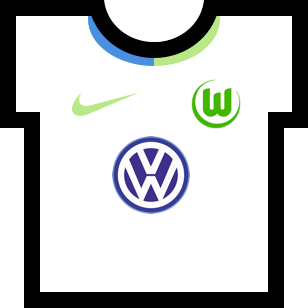
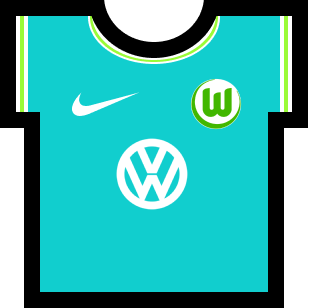
Updated more kits to season 20

diff --git a/docs/js/main.min.js b/docs/js/main.min.js
@@ -1,1 +1,1 @@
-function dataFixture(){var e=this,a=[];e.matchesURI="https://api.football-data.org/v2/competitions/2002/matches",e.matchdayURI="https://api.football-data.org/v2/competitions",e.ajax=function(e,a,t){var n={url:e,type:a,accepts:"application/json",cache:!1,dataType:"json",data:JSON.stringify(t),headers:{"X-Auth-Token":"5c8b70988e784fca8186b93d38b1bae7"},error:function(e){console.log("ajax error "+e.status)}};return $.ajax(n)},e.ajax(e.matchdayURI,"GET").done(function(e){var t=e.competitions;for(i=0;i<t.length;i++){const n=t[i];2002==n.id&&a.push(n.currentSeason.currentMatchday)}}),e.ajax(e.matchesURI,"GET").done(function(e){var t=e.matches,n=(new Date,new Date("2018-04-24"),[]),r=a[0];for($(".js-fixture-round").text(r+". Spieltag"),i=0;i<t.length;i++){const s=t[i];s.matchday==r&&n.push(s)}for(console.log(e),i=0;i<n.length;i++){const s=n[i];fixtureItem(s)}})}function dataLadder(){var e=this;e.ajax=function(e,a,t){var n={url:e,type:a,accepts:"application/json",cache:!1,dataType:"json",data:JSON.stringify(t),headers:{"X-Auth-Token":"5c8b70988e784fca8186b93d38b1bae7"},error:function(e){console.log("ajax error "+e.status)}};return $.ajax(n)},e.tasksURI="https://api.football-data.org/v2/competitions/2002/standings",e.ajax(e.tasksURI,"GET").done(function(e){var a=e.standings[0].table;for(console.log(a),i=0;i<a.length;i++){ladderItem(a[i],i+1)}})}function data(){dataFixture(),dataLadder()}function dateTime(e){var a=new Date(e),t=a.getDate();return{day:function(e){var a=e.getDay();return 0==a?"Sonntag":1==a?"Montag":2==a?"Dienstag":3==a?"Mittwoch":4==a?"Donnerstag":5==a?"Freitag":6==a?"Samstag":void 0}(a),month:function(e){var a=e.getMonth();return 0==a?"Jan":1==a?"Feb":2==a?"Mär":3==a?"Apr":4==a?"Mai":5==a?"Jun":6==a?"Jul":7==a?"Aug":8==a?"Sep":9==a?"Okt":10==a?"Nov":11==a?"Dez":void 0}(a),date:t,time:function(e){return e.getHours()+":"+("0"+e.getMinutes()).slice(-2)}(a)}}function fixtureItem(e){var a=dateTime(e.utcDate),t=e.status;"IN_PLAY"==t?$(".js-fixture").before('<div class="c-fixture__game c-fixture__game--in-progress"><div class= "c-fixture__date c-date" ><span class="c-date__day">'+a.day+'</span><span class="c-date__month">'+a.month+'</span><span class="c-date__date">'+a.date+'</span><span class="c-date__time">LIVE</span></div ><div class="c-fixture__team js-fixture-team-1"><img class="js-team-img" src="'+kitImg(e.homeTeam.name,e.awayTeam.name,"Home")+'" /><span class="js-team-text">'+teamAbrev(e.homeTeam.name)[0].name+'</span><span class="c-fixture__score js-score-text">'+e.score.fullTime.homeTeam+'</span></div><div class="c-fixture__vs">vs</div><div class="c-fixture__team js-fixture-team-2"><img class="js-team-img" src="'+kitImg(e.homeTeam.name,e.awayTeam.name,"Away")+'" /><span class="js-team-text">'+teamAbrev(e.awayTeam.name)[0].name+'</span><span class="c-fixture__score js-score-text">'+e.score.fullTime.awayTeam+'</span></div><div class="c-fixture__venue js-fixture-venue"></div></div>'):"PAUSED"==t?$(".js-fixture").before('<div class="c-fixture__game c-fixture__game--in-progress"><div class= "c-fixture__date c-date" ><span class="c-date__day">'+a.day+'</span><span class="c-date__month">'+a.month+'</span><span class="c-date__date">'+a.date+'</span><span class="c-date__time">HT</span></div ><div class="c-fixture__team js-fixture-team-1"><img class="js-team-img" src="'+kitImg(e.homeTeam.name,e.awayTeam.name,"Home")+'" /><span class="js-team-text">'+teamAbrev(e.homeTeam.name)[0].name+'</span><span class="c-fixture__score js-score-text">'+e.score.fullTime.homeTeam+'</span></div><div class="c-fixture__vs">vs</div><div class="c-fixture__team js-fixture-team-2"><img class="js-team-img" src="'+kitImg(e.homeTeam.name,e.awayTeam.name,"Away")+'" /><span class="js-team-text">'+teamAbrev(e.awayTeam.name)[0].name+'</span><span class="c-fixture__score js-score-text">'+e.score.fullTime.awayTeam+'</span></div><div class="c-fixture__venue js-fixture-venue"></div></div>'):"FINISHED"==t?$(".js-fixture").before('<div class="c-fixture__game c-fixture__game--completed"><div class= "c-fixture__date c-date" ><span class="c-date__day">'+a.day+'</span><span class="c-date__month">'+a.month+'</span><span class="c-date__date">'+a.date+'</span><span class="c-date__time">FT</span></div ><div class="c-fixture__team js-fixture-team-1"><img class="js-team-img" src="'+kitImg(e.homeTeam.name,e.awayTeam.name,"Home")+'" /><span class="js-team-text">'+teamAbrev(e.homeTeam.name)[0].name+'</span><span class="c-fixture__score js-score-text">'+e.score.fullTime.homeTeam+'</span></div><div class="c-fixture__vs">vs</div><div class="c-fixture__team js-fixture-team-2"><img class="js-team-img" src="'+kitImg(e.homeTeam.name,e.awayTeam.name,"Away")+'" /><span class="js-team-text">'+teamAbrev(e.awayTeam.name)[0].name+'</span><span class="c-fixture__score js-score-text">'+e.score.fullTime.awayTeam+'</span></div><div class="c-fixture__venue js-fixture-venue"></div></div>'):$(".js-fixture").before('<div class="c-fixture__game"><div class= "c-fixture__date c-date" ><span class="c-date__day">'+a.day+'</span><span class="c-date__month">'+a.month+'</span><span class="c-date__date">'+a.date+'</span><span class="c-date__time">'+a.time+'</span></div ><div class="c-fixture__team js-fixture-team-1"><img class="js-team-img" src="'+kitImg(e.homeTeam.name,e.awayTeam.name,"Home")+'" /><span class="js-team-text">'+teamAbrev(e.homeTeam.name)[0].name+'</span><span class="c-fixture__score js-score-text">-</span></div><div class="c-fixture__vs">vs</div><div class="c-fixture__team js-fixture-team-2"><img class="js-team-img" src="'+kitImg(e.homeTeam.name,e.awayTeam.name,"Away")+'" /><span class="js-team-text">'+teamAbrev(e.awayTeam.name)[0].name+'</span><span class="c-fixture__score js-score-text">-</span></div><div class="c-fixture__venue js-fixture-venue"></div></div>')}function kitImg(e,a,t){if("Home"==t){if("1. FC Nürnberg"==e)return"img/teams/Nuernberg/Home.png";if("1. FSV Mainz 05"==e)return"img/teams/Mainz/Home.png";if("Bayer 04 Leverkusen"==e)return"img/teams/Leverkusen/Home.png";if("BV Borussia 09 Dortmund"==e)return"img/teams/Dortmund/Home.png";if("Borussia Mönchengladbach"==e)return"img/teams/Gladbach/Home.png";if("Eintracht Frankfurt"==e)return"img/teams/Frankfurt/Home.png";if("FC Augsburg"==e)return"img/teams/Augsburg/Home.png";if("FC Bayern München"==e)return"img/teams/Bayern/Home.png";if("FC Schalke 04"==e)return"img/teams/Schalke/Home.png";if("TSV Fortuna 95 Düsseldorf"==e)return"img/teams/Duesseldorf/Home.png";if("Hannover 96"==e)return"img/teams/Hannover/Home.png";if("Hertha BSC"==e)return"img/teams/Hertha/Home.png";if("RB Leipzig"==e)return"img/teams/Leipzig/Home.png";if("SC Freiburg"==e)return"img/teams/Freiburg/Home.png";if("TSG 1899 Hoffenheim"==e)return"img/teams/Hoffenheim/Home.png";if("VfB Stuttgart"==e)return"img/teams/Stuttgart/Home.png";if("VfL Wolfsburg"==e)return"img/teams/Wolfsburg/Home.png";if("SV Werder Bremen"==e)return"img/teams/Bremen/Home.png";if("SC Paderborn 07"==e)return"img/teams/Paderborn/Home.png";if("1. FC Köln"==e)return"img/teams/Koeln/Home.png";if("1. FC Union Berlin"==e)return"img/teams/Union/Home.png"}else if("Away"==t){if("1. FC Nürnberg"==a)return"VfB Stuttgart"==e||"Borussia Mönchengladbach"==e||"FC Augsburg"==e||"RB Leipzig"==e?"img/teams/Nuernberg/Home.png":"img/teams/Nuernberg/Away.png";if("1. FSV Mainz 05"==a)return"FC Schalke 04"==e||"Hertha BSC"==e||"TSG 1899 Hoffenheim"==e?"img/teams/Mainz/Third.png":"img/teams/Mainz/Away.png";if("Bayer 04 Leverkusen"==a)return"VfB Stuttgart"==e||"Borussia Mönchengladbach"==e||"FC Augsburg"==e||"RB Leipzig"==e?"img/teams/Leverkusen/Third.png":"img/teams/Leverkusen/Away.png";if("BV Borussia 09 Dortmund"==a)return"Eintracht Frankfurt"==e||"Bayer Leverkusen"==e?"img/teams/Dortmund/Home.png":"img/teams/Dortmund/Away.png";if("Borussia Mönchengladbach"==a)return"FC Schalke 04"==e||"Hertha BSC"==e||"TSG 1899 Hoffenheim"==e?"img/teams/Gladbach/Home.png":"img/teams/Gladbach/Away.png";if("Eintracht Frankfurt"==a)return"VfB Stuttgart"==e||"Borussia Mönchengladbach"==e||"FC Augsburg"==e||"RB Leipzig"==e?"img/teams/Frankfurt/Third.png":"img/teams/Frankfurt/Away.png";if("FC Augsburg"==a)return"SV Werder Bremen"==e||"VfL Wolfsburg"==e?"img/teams/Augsburg/Third.png":"img/teams/Augsburg/Away.png";if("FC Bayern München"==a)return"VfB Stuttgart"==e||"Borussia Mönchengladbach"==e||"FC Augsburg"==e||"RB Leipzig"==e?"img/teams/Bayern/Home.png":"img/teams/Bayern/Away.png";if("FC Schalke 04"==a)return"VfB Stuttgart"==e||"Borussia Mönchengladbach"==e||"FC Augsburg"==e||"RB Leipzig"==e?"img/teams/Schalke/Home.png":"img/teams/Schalke/Away.png";if("TSV Fortuna 95 Düsseldorf"==a)return"SC Freiburg"==e||"FC Bayern München"==e||"1. FC Nürnberg"==e||"1. FSV Mainz 05"==e||"Hannover 96"==e||"TSV Fortuna 95 Düsseldorf"==e||"1. FC Union Berlin"==e?"img/teams/Duesseldorf/Third.png":"img/teams/Duesseldorf/Away.png";if("Hannover 96"==a)return"Eintracht Frankfurt"==e||"Bayer Leverkusen"==e?"img/teams/Hannover/Third.png":"img/teams/Hannover/Away.png";if("Hertha BSC"==a)return"Eintracht Frankfurt"==e||"Bayer 04 Leverkusen"==e||"SC Freiburg"==e||"FC Bayern München"==e||"1. FC Nürnberg"==e||"1. FSV Mainz 05"==e||"Hannover 96"==e||"TSV Fortuna 95 Düsseldorf"==e||"1. FC Union Berlin"==e?"img/teams/Hertha/Home.png":"img/teams/Hertha/Away.png";if("RB Leipzig"==a)return"Eintracht Frankfurt"==e||"Bayer 04 Leverkusen"==e||"FC Schalke 04"==e||"Hertha BSC"==e||"TSG 1899 Hoffenheim"==e?"img/teams/Leipzig/Home.png":"img/teams/Leipzig/Away.png";if("SC Freiburg"==a)return"Eintracht Frankfurt"==e||"Bayer 04 Leverkusen"==e?"img/teams/Freiburg/Third.png":"img/teams/Freiburg/Away.png";if("TSG 1899 Hoffenheim"==a)return"VfB Stuttgart"==e||"Borussia Mönchengladbach"==e||"FC Augsburg"==e||"RB Leipzig"==e?"img/teams/Hoffenheim/Third.png":"img/teams/Hoffenheim/Away.png";if("VfB Stuttgart"==a)return"SC Freiburg"==e||"FC Bayern München"==e||"1. FC Nürnberg"==e||"1. FSV Mainz 05"==e||"Hannover 96"==e||"TSV Fortuna 95 Düsseldorf"==e?"img/teams/Stuttgart/Third.png":"img/teams/Stuttgart/Away.png";if("VfL Wolfsburg"==a)return"VfB Stuttgart"==e||"Borussia Mönchengladbach"==e||"FC Augsburg"==e||"RB Leipzig"==e?"img/teams/Wolfsburg/Third.png":"img/teams/Wolfsburg/Away.png";if("SV Werder Bremen"==a)return"VfB Stuttgart"==e||"Borussia Mönchengladbach"==e||"FC Augsburg"==e||"RB Leipzig"==e?"img/teams/Bremen/Home.png":"img/teams/Bremen/Away.png";if("SC Paderborn 07"==a)return"VfB Stuttgart"==e||"Borussia Mönchengladbach"==e||"FC Augsburg"==e||"RB Leipzig"==e?"img/teams/Paderborn/Third.png":"img/teams/Paderborn/Away.png";if("1. FC Köln"==a)return"SC Freiburg"==e||"FC Bayern München"==e||"1. FC Nürnberg"==e||"1. FSV Mainz 05"==e||"Hannover 96"==e||"TSV Fortuna 95 Düsseldorf"==e||"1. FC Union Berlin"==e?"img/teams/Koeln/Third.png":"img/teams/Koeln/Away.png";if("1. FC Union Berlin"==a)return"VfB Stuttgart"==e||"Borussia Mönchengladbach"==e||"FC Augsburg"==e||"RB Leipzig"==e?"img/teams/Union/Third.png":"img/teams/Union/Away.png"}}function ladderItem(e,a){$(".c-ladder__item-"+a+" div.c-ladder__team").children("span").text(teamAbrev(e.team.name)[0].name),$(".c-ladder__item-"+a+" div.c-ladder__team").children("img").attr("src",teamImg(e.team.name)),$(".c-ladder__item-"+a+" div.c-ladder__played").text(e.playedGames),$(".c-ladder__item-"+a+" div.c-ladder__wins").text(e.won),$(".c-ladder__item-"+a+" div.c-ladder__losses").text(e.lost),$(".c-ladder__item-"+a+" div.c-ladder__draws").text(e.draw),$(".c-ladder__item-"+a+" div.c-ladder__points-for").text(e.goalsFor),$(".c-ladder__item-"+a+" div.c-ladder__points-against").text(e.goalsAgainst),$(".c-ladder__item-"+a+" div.c-ladder__percentage").text(e.goalDifference),$(".c-ladder__item-"+a+" div.c-ladder__points").text(e.points)}function roundCalc(e){var a=new Date(e),t=a.getMonth(),n=a.getDate(),r=a.getFullYear();return"2018"==r&&t<=7&&n<=27?1:"2018"==r&&7==t&&n<=31||"2018"==r&&8==t&&2==n?2:"2018"==r&&8==t&&n<=16?3:"2018"==r&&8==t&&n<=23?4:"2018"==r&&8==t&&n<=26?5:"2018"==r&&8==t&&n<=30?6:"2018"==r&&9==t&&n<=7?7:"2018"==r&&9==t&&n<=21?8:"2018"==r&&9==t&&n<=28?9:"2018"==r&&9==t&&n<=31||"2018"==r&&10==t&&n<=4?10:"2018"==r&&10==t&&n<=11?11:"2018"==r&&10==t&&n<=25?12:"2018"==r&&10==t&&n<=31||"2018"==r&&11==t&&n<=3?13:"2018"==r&&11==t&&n<=9?14:"2018"==r&&11==t&&n<=16?15:"2018"==r&&11==t&&n<=19?16:"2018"==r&&11==t&&n<=23?17:"2019"==r&&0==t&&n<=20?18:"2019"==r&&0==t&&n<=27?19:"2019"==r&&0==t&&n<=31||"2019"==r&&1==t&&n<=3?20:"2019"==r&&1==t&&n<=10?21:"2019"==r&&1==t&&n<=18?22:"2019"==r&&1==t&&n<=25?23:"2019"==r&&1==t&&n<=25?24:"2019"==r&&1==t&&n<=31||"2019"==r&&1==t?25:"2019"==r&&2==t&&n<=11?26:void 0}function teamAbrev(e){var a=e;return"Eintracht Frankfurt"==a?[{code:"SGE",name:"Frankfurt"}]:"BV Borussia 09 Dortmund"==a?[{code:"BVB",name:"Dortmund"}]:"VfB Stuttgart"==a?[{code:"STU",name:"Stuttgart"}]:"FC Schalke 04"==a?[{code:"S04",name:"Schalke"}]:"1. FC Nürnberg"==a?[{code:"FCN",name:"Nürnberg"}]:"SV Werder Bremen"==a?[{code:"SVW",name:"Bremen"}]:"Hertha BSC"==a?[{code:"BSC",name:"Berlin"}]:"Hannover 96"==a?[{code:"HAN",name:"Hannover"}]:"Borussia Mönchengladbach"==a?[{code:"BMG",name:"Gladbach"}]:"FC Bayern München"==a?[{code:"MUN",name:"Bayern"}]:"TSV Fortuna 95 Düsseldorf"==a?[{code:"DUS",name:"Düsseldorf"}]:"Bayer 04 Leverkusen"==a?[{code:"B04",name:"Leverkusen"}]:"SC Freiburg"==a?[{code:"SCF",name:"Freiburg"}]:"VfL Wolfsburg"==a?[{code:"WOB",name:"Wolfsburg"}]:"1. FSV Mainz 05"==a?[{code:"MAI",name:"Mainz"}]:"TSG 1899 Hoffenheim"==a?[{code:"TSG",name:"Hoffenheim"}]:"FC Augsburg"==a?[{code:"AUG",name:"Augsburg"}]:"RB Leipzig"==a?[{code:"RBL",name:"Leipzig"}]:"SC Paderborn 07"==a?[{code:"PAD",name:"Paderborn"}]:"1. FC Köln"==a?[{code:"KLN",name:"Köln"}]:"1. FC Union Berlin"==a?[{code:"UNB",name:"Union"}]:void 0}function teamImg(e){return"1. FC Nürnberg"==e?"img/teams/Nuernberg/Logo.png":"1. FSV Mainz 05"==e?"img/teams/Mainz/Logo.png":"Bayer 04 Leverkusen"==e?"img/teams/Leverkusen/Logo.png":"BV Borussia 09 Dortmund"==e?"img/teams/Dortmund/Logo.png":"Borussia Mönchengladbach"==e?"img/teams/Gladbach/Logo.png":"Eintracht Frankfurt"==e?"img/teams/Frankfurt/Logo.png":"FC Augsburg"==e?"img/teams/Augsburg/Logo.png":"FC Bayern München"==e?"img/teams/Bayern/Logo.png":"FC Schalke 04"==e?"img/teams/Schalke/Logo.png":"TSV Fortuna 95 Düsseldorf"==e?"img/teams/Duesseldorf/Logo.png":"Hannover 96"==e?"img/teams/Hannover/Logo.png":"Hertha BSC"==e?"img/teams/Hertha/Logo.png":"RB Leipzig"==e?"img/teams/Leipzig/Logo.png":"SC Freiburg"==e?"img/teams/Freiburg/Logo.png":"TSG 1899 Hoffenheim"==e?"img/teams/Hoffenheim/Logo.png":"VfB Stuttgart"==e?"img/teams/Stuttgart/Logo.png":"VfL Wolfsburg"==e?"img/teams/Wolfsburg/Logo.png":"SV Werder Bremen"==e?"img/teams/Bremen/Logo.png":"SC Paderborn 07"==e?"img/teams/Paderborn/Logo.png":"1. FC Köln"==e?"img/teams/Koeln/Logo.png":"1. FC Union Berlin"==e?"img/teams/Union/Logo.png":void 0}function vertCenter(e,a){var t=e.parent().height();e.css({height:t+"px","line-height":t+"px"}),e.children(a).css({height:e.children(a).height(),"padding-top":(t-e.children(a).height())/2+"px","padding-bottom":(t-e.children(a).height())/2+"px"})}function clearStyles(e,a){e.attr("style",""),a.attr("style","")}data(),$(window).on("resize",function(){});
+function dataFixture(){var e=this,a=[];e.matchesURI="https://api.football-data.org/v2/competitions/2002/matches",e.matchdayURI="https://api.football-data.org/v2/competitions",e.ajax=function(e,a,t){var n={url:e,type:a,accepts:"application/json",cache:!1,dataType:"json",data:JSON.stringify(t),headers:{"X-Auth-Token":"5c8b70988e784fca8186b93d38b1bae7"},error:function(e){console.log("ajax error "+e.status)}};return $.ajax(n)},e.ajax(e.matchdayURI,"GET").done(function(e){var t=e.competitions;for(i=0;i<t.length;i++){const n=t[i];2002==n.id&&a.push(n.currentSeason.currentMatchday)}}),e.ajax(e.matchesURI,"GET").done(function(e){var t=e.matches,n=(new Date,new Date("2018-04-24"),[]),r=a[0];for($(".js-fixture-round").text(r+". Spieltag"),i=0;i<t.length;i++){const s=t[i];s.matchday==r&&n.push(s)}for(console.log(e),i=0;i<n.length;i++){const s=n[i];fixtureItem(s)}})}function dataLadder(){var e=this;e.ajax=function(e,a,t){var n={url:e,type:a,accepts:"application/json",cache:!1,dataType:"json",data:JSON.stringify(t),headers:{"X-Auth-Token":"5c8b70988e784fca8186b93d38b1bae7"},error:function(e){console.log("ajax error "+e.status)}};return $.ajax(n)},e.tasksURI="https://api.football-data.org/v2/competitions/2002/standings",e.ajax(e.tasksURI,"GET").done(function(e){var a=e.standings[0].table;for(console.log(a),i=0;i<a.length;i++){ladderItem(a[i],i+1)}})}function data(){dataFixture(),dataLadder()}function dateTime(e){var a=new Date(e),t=a.getDate();return{day:function(e){var a=e.getDay();return 0==a?"Sonntag":1==a?"Montag":2==a?"Dienstag":3==a?"Mittwoch":4==a?"Donnerstag":5==a?"Freitag":6==a?"Samstag":void 0}(a),month:function(e){var a=e.getMonth();return 0==a?"Jan":1==a?"Feb":2==a?"Mär":3==a?"Apr":4==a?"Mai":5==a?"Jun":6==a?"Jul":7==a?"Aug":8==a?"Sep":9==a?"Okt":10==a?"Nov":11==a?"Dez":void 0}(a),date:t,time:function(e){return e.getHours()+":"+("0"+e.getMinutes()).slice(-2)}(a)}}function fixtureItem(e){var a=dateTime(e.utcDate),t=e.status;"IN_PLAY"==t?$(".js-fixture").before('<div class="c-fixture__game c-fixture__game--in-progress"><div class= "c-fixture__date c-date" ><span class="c-date__day">'+a.day+'</span><span class="c-date__month">'+a.month+'</span><span class="c-date__date">'+a.date+'</span><span class="c-date__time">LIVE</span></div ><div class="c-fixture__team js-fixture-team-1"><img class="js-team-img" src="'+kitImg(e.homeTeam.name,e.awayTeam.name,"Home")+'" /><span class="js-team-text">'+teamAbrev(e.homeTeam.name)[0].name+'</span><span class="c-fixture__score js-score-text">'+e.score.fullTime.homeTeam+'</span></div><div class="c-fixture__vs">vs</div><div class="c-fixture__team js-fixture-team-2"><img class="js-team-img" src="'+kitImg(e.homeTeam.name,e.awayTeam.name,"Away")+'" /><span class="js-team-text">'+teamAbrev(e.awayTeam.name)[0].name+'</span><span class="c-fixture__score js-score-text">'+e.score.fullTime.awayTeam+'</span></div><div class="c-fixture__venue js-fixture-venue"></div></div>'):"PAUSED"==t?$(".js-fixture").before('<div class="c-fixture__game c-fixture__game--in-progress"><div class= "c-fixture__date c-date" ><span class="c-date__day">'+a.day+'</span><span class="c-date__month">'+a.month+'</span><span class="c-date__date">'+a.date+'</span><span class="c-date__time">HT</span></div ><div class="c-fixture__team js-fixture-team-1"><img class="js-team-img" src="'+kitImg(e.homeTeam.name,e.awayTeam.name,"Home")+'" /><span class="js-team-text">'+teamAbrev(e.homeTeam.name)[0].name+'</span><span class="c-fixture__score js-score-text">'+e.score.fullTime.homeTeam+'</span></div><div class="c-fixture__vs">vs</div><div class="c-fixture__team js-fixture-team-2"><img class="js-team-img" src="'+kitImg(e.homeTeam.name,e.awayTeam.name,"Away")+'" /><span class="js-team-text">'+teamAbrev(e.awayTeam.name)[0].name+'</span><span class="c-fixture__score js-score-text">'+e.score.fullTime.awayTeam+'</span></div><div class="c-fixture__venue js-fixture-venue"></div></div>'):"FINISHED"==t?$(".js-fixture").before('<div class="c-fixture__game c-fixture__game--completed"><div class= "c-fixture__date c-date" ><span class="c-date__day">'+a.day+'</span><span class="c-date__month">'+a.month+'</span><span class="c-date__date">'+a.date+'</span><span class="c-date__time">FT</span></div ><div class="c-fixture__team js-fixture-team-1"><img class="js-team-img" src="'+kitImg(e.homeTeam.name,e.awayTeam.name,"Home")+'" /><span class="js-team-text">'+teamAbrev(e.homeTeam.name)[0].name+'</span><span class="c-fixture__score js-score-text">'+e.score.fullTime.homeTeam+'</span></div><div class="c-fixture__vs">vs</div><div class="c-fixture__team js-fixture-team-2"><img class="js-team-img" src="'+kitImg(e.homeTeam.name,e.awayTeam.name,"Away")+'" /><span class="js-team-text">'+teamAbrev(e.awayTeam.name)[0].name+'</span><span class="c-fixture__score js-score-text">'+e.score.fullTime.awayTeam+'</span></div><div class="c-fixture__venue js-fixture-venue"></div></div>'):$(".js-fixture").before('<div class="c-fixture__game"><div class= "c-fixture__date c-date" ><span class="c-date__day">'+a.day+'</span><span class="c-date__month">'+a.month+'</span><span class="c-date__date">'+a.date+'</span><span class="c-date__time">'+a.time+'</span></div ><div class="c-fixture__team js-fixture-team-1"><img class="js-team-img" src="'+kitImg(e.homeTeam.name,e.awayTeam.name,"Home")+'" /><span class="js-team-text">'+teamAbrev(e.homeTeam.name)[0].name+'</span><span class="c-fixture__score js-score-text">-</span></div><div class="c-fixture__vs">vs</div><div class="c-fixture__team js-fixture-team-2"><img class="js-team-img" src="'+kitImg(e.homeTeam.name,e.awayTeam.name,"Away")+'" /><span class="js-team-text">'+teamAbrev(e.awayTeam.name)[0].name+'</span><span class="c-fixture__score js-score-text">-</span></div><div class="c-fixture__venue js-fixture-venue"></div></div>')}function kitImg(e,a,t){if("Home"==t){if("1. FC Nürnberg"==e)return"img/teams/Nuernberg/Home.png";if("1. FSV Mainz 05"==e)return"img/teams/Mainz/Home.png";if("Bayer 04 Leverkusen"==e)return"img/teams/Leverkusen/Home.png";if("BV Borussia 09 Dortmund"==e)return"img/teams/Dortmund/Home.png";if("Borussia Mönchengladbach"==e)return"img/teams/Gladbach/Home.png";if("Eintracht Frankfurt"==e)return"img/teams/Frankfurt/Home.png";if("FC Augsburg"==e)return"img/teams/Augsburg/Home.png";if("FC Bayern München"==e)return"img/teams/Bayern/Home.png";if("FC Schalke 04"==e)return"img/teams/Schalke/Home.png";if("TSV Fortuna 95 Düsseldorf"==e)return"img/teams/Duesseldorf/Home.png";if("Hannover 96"==e)return"img/teams/Hannover/Home.png";if("Hertha BSC"==e)return"img/teams/Hertha/Home.png";if("RB Leipzig"==e)return"img/teams/Leipzig/Home.png";if("SC Freiburg"==e)return"img/teams/Freiburg/Home.png";if("TSG 1899 Hoffenheim"==e)return"img/teams/Hoffenheim/Home.png";if("VfB Stuttgart"==e)return"img/teams/Stuttgart/Home.png";if("VfL Wolfsburg"==e)return"img/teams/Wolfsburg/Home.png";if("SV Werder Bremen"==e)return"img/teams/Bremen/Home.png";if("SC Paderborn 07"==e)return"img/teams/Paderborn/Home.png";if("1. FC Köln"==e)return"img/teams/Koeln/Home.png";if("1. FC Union Berlin"==e)return"img/teams/Union/Home.png"}else if("Away"==t){if("1. FC Nürnberg"==a)return"VfB Stuttgart"==e||"Borussia Mönchengladbach"==e||"FC Augsburg"==e||"RB Leipzig"==e?"img/teams/Nuernberg/Home.png":"img/teams/Nuernberg/Away.png";if("1. FSV Mainz 05"==a)return"FC Schalke 04"==e||"Hertha BSC"==e||"TSG 1899 Hoffenheim"==e?"img/teams/Mainz/Third.png":"img/teams/Mainz/Away.png";if("Bayer 04 Leverkusen"==a)return"VfB Stuttgart"==e||"Borussia Mönchengladbach"==e||"FC Augsburg"==e||"RB Leipzig"==e?"img/teams/Leverkusen/Third.png":"img/teams/Leverkusen/Away.png";if("BV Borussia 09 Dortmund"==a)return"Eintracht Frankfurt"==e||"Bayer Leverkusen"==e?"img/teams/Dortmund/Home.png":"img/teams/Dortmund/Away.png";if("Borussia Mönchengladbach"==a)return"FC Schalke 04"==e||"Hertha BSC"==e||"TSG 1899 Hoffenheim"==e?"img/teams/Gladbach/Home.png":"img/teams/Gladbach/Away.png";if("Eintracht Frankfurt"==a)return"VfB Stuttgart"==e||"Borussia Mönchengladbach"==e||"FC Augsburg"==e||"RB Leipzig"==e?"img/teams/Frankfurt/Third.png":"img/teams/Frankfurt/Away.png";if("FC Augsburg"==a)return"Eintracht Frankfurt"==e?"img/teams/Augsburg/Third.png":"img/teams/Augsburg/Away.png";if("FC Bayern München"==a)return"VfB Stuttgart"==e||"Borussia Mönchengladbach"==e||"FC Augsburg"==e||"RB Leipzig"==e?"img/teams/Bayern/Home.png":"img/teams/Bayern/Away.png";if("FC Schalke 04"==a)return"VfB Stuttgart"==e||"Borussia Mönchengladbach"==e||"FC Augsburg"==e||"RB Leipzig"==e?"img/teams/Schalke/Home.png":"img/teams/Schalke/Away.png";if("TSV Fortuna 95 Düsseldorf"==a)return"SC Freiburg"==e||"FC Bayern München"==e||"1. FC Nürnberg"==e||"1. FSV Mainz 05"==e||"Hannover 96"==e||"TSV Fortuna 95 Düsseldorf"==e||"1. FC Union Berlin"==e?"img/teams/Duesseldorf/Third.png":"img/teams/Duesseldorf/Away.png";if("Hannover 96"==a)return"Eintracht Frankfurt"==e||"Bayer Leverkusen"==e?"img/teams/Hannover/Third.png":"img/teams/Hannover/Away.png";if("Hertha BSC"==a)return"Eintracht Frankfurt"==e||"Bayer 04 Leverkusen"==e||"SC Freiburg"==e||"FC Bayern München"==e||"1. FC Nürnberg"==e||"1. FSV Mainz 05"==e||"Hannover 96"==e||"TSV Fortuna 95 Düsseldorf"==e||"1. FC Union Berlin"==e?"img/teams/Hertha/Home.png":"img/teams/Hertha/Away.png";if("RB Leipzig"==a)return"Eintracht Frankfurt"==e||"Bayer 04 Leverkusen"==e||"FC Schalke 04"==e||"Hertha BSC"==e||"TSG 1899 Hoffenheim"==e?"img/teams/Leipzig/Home.png":"img/teams/Leipzig/Away.png";if("SC Freiburg"==a)return"Eintracht Frankfurt"==e||"Bayer 04 Leverkusen"==e?"img/teams/Freiburg/Third.png":"img/teams/Freiburg/Away.png";if("TSG 1899 Hoffenheim"==a)return"VfB Stuttgart"==e||"Borussia Mönchengladbach"==e||"FC Augsburg"==e||"RB Leipzig"==e?"img/teams/Hoffenheim/Third.png":"img/teams/Hoffenheim/Away.png";if("VfB Stuttgart"==a)return"SC Freiburg"==e||"FC Bayern München"==e||"1. FC Nürnberg"==e||"1. FSV Mainz 05"==e||"Hannover 96"==e||"TSV Fortuna 95 Düsseldorf"==e?"img/teams/Stuttgart/Third.png":"img/teams/Stuttgart/Away.png";if("VfL Wolfsburg"==a)return"FC Schalke 04"==e||"Hertha BSC"==e||"TSG 1899 Hoffenheim"==e?"img/teams/Wolfsburg/Third.png":"img/teams/Wolfsburg/Away.png";if("SV Werder Bremen"==a)return"VfB Stuttgart"==e||"Borussia Mönchengladbach"==e||"FC Augsburg"==e||"RB Leipzig"==e?"img/teams/Bremen/Home.png":"img/teams/Bremen/Away.png";if("SC Paderborn 07"==a)return"VfB Stuttgart"==e||"Borussia Mönchengladbach"==e||"FC Augsburg"==e||"RB Leipzig"==e?"img/teams/Paderborn/Third.png":"img/teams/Paderborn/Away.png";if("1. FC Köln"==a)return"SC Freiburg"==e||"FC Bayern München"==e||"1. FC Nürnberg"==e||"1. FSV Mainz 05"==e||"Hannover 96"==e||"TSV Fortuna 95 Düsseldorf"==e||"1. FC Union Berlin"==e?"img/teams/Koeln/Third.png":"img/teams/Koeln/Away.png";if("1. FC Union Berlin"==a)return"VfB Stuttgart"==e||"Borussia Mönchengladbach"==e||"FC Augsburg"==e||"RB Leipzig"==e?"img/teams/Union/Third.png":"img/teams/Union/Away.png"}}function ladderItem(e,a){$(".c-ladder__item-"+a+" div.c-ladder__team").children("span").text(teamAbrev(e.team.name)[0].name),$(".c-ladder__item-"+a+" div.c-ladder__team").children("img").attr("src",teamImg(e.team.name)),$(".c-ladder__item-"+a+" div.c-ladder__played").text(e.playedGames),$(".c-ladder__item-"+a+" div.c-ladder__wins").text(e.won),$(".c-ladder__item-"+a+" div.c-ladder__losses").text(e.lost),$(".c-ladder__item-"+a+" div.c-ladder__draws").text(e.draw),$(".c-ladder__item-"+a+" div.c-ladder__points-for").text(e.goalsFor),$(".c-ladder__item-"+a+" div.c-ladder__points-against").text(e.goalsAgainst),$(".c-ladder__item-"+a+" div.c-ladder__percentage").text(e.goalDifference),$(".c-ladder__item-"+a+" div.c-ladder__points").text(e.points)}function roundCalc(e){var a=new Date(e),t=a.getMonth(),n=a.getDate(),r=a.getFullYear();return"2018"==r&&t<=7&&n<=27?1:"2018"==r&&7==t&&n<=31||"2018"==r&&8==t&&2==n?2:"2018"==r&&8==t&&n<=16?3:"2018"==r&&8==t&&n<=23?4:"2018"==r&&8==t&&n<=26?5:"2018"==r&&8==t&&n<=30?6:"2018"==r&&9==t&&n<=7?7:"2018"==r&&9==t&&n<=21?8:"2018"==r&&9==t&&n<=28?9:"2018"==r&&9==t&&n<=31||"2018"==r&&10==t&&n<=4?10:"2018"==r&&10==t&&n<=11?11:"2018"==r&&10==t&&n<=25?12:"2018"==r&&10==t&&n<=31||"2018"==r&&11==t&&n<=3?13:"2018"==r&&11==t&&n<=9?14:"2018"==r&&11==t&&n<=16?15:"2018"==r&&11==t&&n<=19?16:"2018"==r&&11==t&&n<=23?17:"2019"==r&&0==t&&n<=20?18:"2019"==r&&0==t&&n<=27?19:"2019"==r&&0==t&&n<=31||"2019"==r&&1==t&&n<=3?20:"2019"==r&&1==t&&n<=10?21:"2019"==r&&1==t&&n<=18?22:"2019"==r&&1==t&&n<=25?23:"2019"==r&&1==t&&n<=25?24:"2019"==r&&1==t&&n<=31||"2019"==r&&1==t?25:"2019"==r&&2==t&&n<=11?26:void 0}function teamAbrev(e){var a=e;return"Eintracht Frankfurt"==a?[{code:"SGE",name:"Frankfurt"}]:"BV Borussia 09 Dortmund"==a?[{code:"BVB",name:"Dortmund"}]:"VfB Stuttgart"==a?[{code:"STU",name:"Stuttgart"}]:"FC Schalke 04"==a?[{code:"S04",name:"Schalke"}]:"1. FC Nürnberg"==a?[{code:"FCN",name:"Nürnberg"}]:"SV Werder Bremen"==a?[{code:"SVW",name:"Bremen"}]:"Hertha BSC"==a?[{code:"BSC",name:"Berlin"}]:"Hannover 96"==a?[{code:"HAN",name:"Hannover"}]:"Borussia Mönchengladbach"==a?[{code:"BMG",name:"Gladbach"}]:"FC Bayern München"==a?[{code:"MUN",name:"Bayern"}]:"TSV Fortuna 95 Düsseldorf"==a?[{code:"DUS",name:"Düsseldorf"}]:"Bayer 04 Leverkusen"==a?[{code:"B04",name:"Leverkusen"}]:"SC Freiburg"==a?[{code:"SCF",name:"Freiburg"}]:"VfL Wolfsburg"==a?[{code:"WOB",name:"Wolfsburg"}]:"1. FSV Mainz 05"==a?[{code:"MAI",name:"Mainz"}]:"TSG 1899 Hoffenheim"==a?[{code:"TSG",name:"Hoffenheim"}]:"FC Augsburg"==a?[{code:"AUG",name:"Augsburg"}]:"RB Leipzig"==a?[{code:"RBL",name:"Leipzig"}]:"SC Paderborn 07"==a?[{code:"PAD",name:"Paderborn"}]:"1. FC Köln"==a?[{code:"KLN",name:"Köln"}]:"1. FC Union Berlin"==a?[{code:"UNB",name:"Union"}]:void 0}function teamImg(e){return"1. FC Nürnberg"==e?"img/teams/Nuernberg/Logo.png":"1. FSV Mainz 05"==e?"img/teams/Mainz/Logo.png":"Bayer 04 Leverkusen"==e?"img/teams/Leverkusen/Logo.png":"BV Borussia 09 Dortmund"==e?"img/teams/Dortmund/Logo.png":"Borussia Mönchengladbach"==e?"img/teams/Gladbach/Logo.png":"Eintracht Frankfurt"==e?"img/teams/Frankfurt/Logo.png":"FC Augsburg"==e?"img/teams/Augsburg/Logo.png":"FC Bayern München"==e?"img/teams/Bayern/Logo.png":"FC Schalke 04"==e?"img/teams/Schalke/Logo.png":"TSV Fortuna 95 Düsseldorf"==e?"img/teams/Duesseldorf/Logo.png":"Hannover 96"==e?"img/teams/Hannover/Logo.png":"Hertha BSC"==e?"img/teams/Hertha/Logo.png":"RB Leipzig"==e?"img/teams/Leipzig/Logo.png":"SC Freiburg"==e?"img/teams/Freiburg/Logo.png":"TSG 1899 Hoffenheim"==e?"img/teams/Hoffenheim/Logo.png":"VfB Stuttgart"==e?"img/teams/Stuttgart/Logo.png":"VfL Wolfsburg"==e?"img/teams/Wolfsburg/Logo.png":"SV Werder Bremen"==e?"img/teams/Bremen/Logo.png":"SC Paderborn 07"==e?"img/teams/Paderborn/Logo.png":"1. FC Köln"==e?"img/teams/Koeln/Logo.png":"1. FC Union Berlin"==e?"img/teams/Union/Logo.png":void 0}function vertCenter(e,a){var t=e.parent().height();e.css({height:t+"px","line-height":t+"px"}),e.children(a).css({height:e.children(a).height(),"padding-top":(t-e.children(a).height())/2+"px","padding-bottom":(t-e.children(a).height())/2+"px"})}function clearStyles(e,a){e.attr("style",""),a.attr("style","")}data(),$(window).on("resize",function(){});

diff --git a/app/js/_dev/_functions/_kit-img.js b/app/js/_dev/_functions/_kit-img.js
@@ -117,9 +117,9 @@ function kitImg(homename,awayname,location){
                 return 'img/teams/Frankfurt/Away.png';
             }
 
-        // FC Augsburg - Green
+        // FC Augsburg - Black
         } else if (awayname == "FC Augsburg") {
-            if (homename == "SV Werder Bremen" || homename == "VfL Wolfsburg") {
+            if (homename == "Eintracht Frankfurt") {
                 return 'img/teams/Augsburg/Third.png';
             } else {
                 return 'img/teams/Augsburg/Away.png';
@@ -197,9 +197,9 @@ function kitImg(homename,awayname,location){
                 return 'img/teams/Stuttgart/Away.png';
             }
 
-        // VfL Wolfsburg - White
+        // VfL Wolfsburg - Light Blue
         } else if (awayname == "VfL Wolfsburg") {
-            if (homename == "VfB Stuttgart" || homename == "Borussia Mönchengladbach" || homename == "FC Augsburg" || homename == "RB Leipzig") {
+            if (homename == "FC Schalke 04" || homename == "Hertha BSC" || homename == "TSG 1899 Hoffenheim") {
                 return 'img/teams/Wolfsburg/Third.png';
             } else {
                 return 'img/teams/Wolfsburg/Away.png';

diff --git a/app/js/main.js b/app/js/main.js
@@ -421,9 +421,9 @@ function kitImg(homename,awayname,location){
                 return 'img/teams/Frankfurt/Away.png';
             }
 
-        // FC Augsburg - Green
+        // FC Augsburg - Black
         } else if (awayname == "FC Augsburg") {
-            if (homename == "SV Werder Bremen" || homename == "VfL Wolfsburg") {
+            if (homename == "Eintracht Frankfurt") {
                 return 'img/teams/Augsburg/Third.png';
             } else {
                 return 'img/teams/Augsburg/Away.png';
@@ -501,9 +501,9 @@ function kitImg(homename,awayname,location){
                 return 'img/teams/Stuttgart/Away.png';
             }
 
-        // VfL Wolfsburg - White
+        // VfL Wolfsburg - Light Blue
         } else if (awayname == "VfL Wolfsburg") {
-            if (homename == "VfB Stuttgart" || homename == "Borussia Mönchengladbach" || homename == "FC Augsburg" || homename == "RB Leipzig") {
+            if (homename == "FC Schalke 04" || homename == "Hertha BSC" || homename == "TSG 1899 Hoffenheim") {
                 return 'img/teams/Wolfsburg/Third.png';
             } else {
                 return 'img/teams/Wolfsburg/Away.png';
